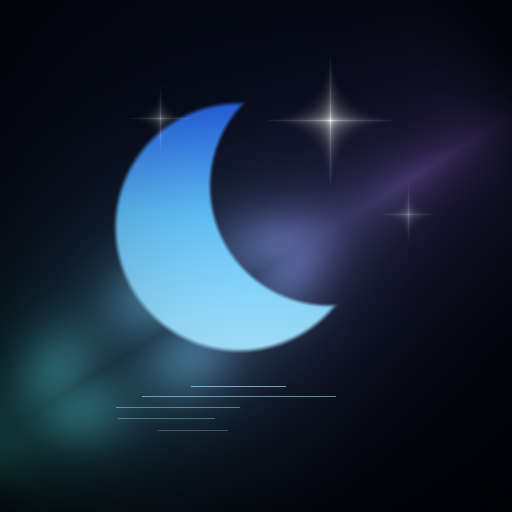
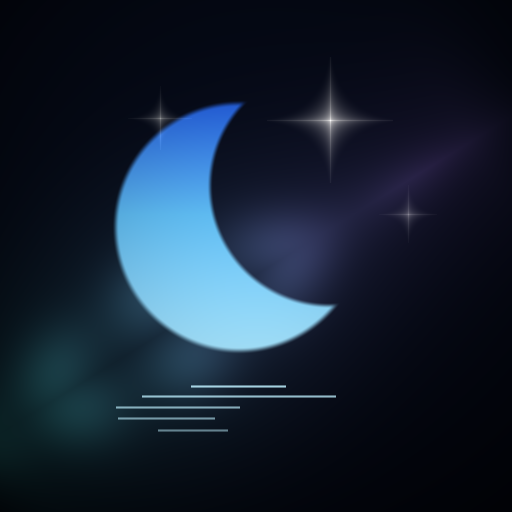
tune: dim aurora to ambient level, brighten and thicken water ripples

Changed region(s): [[0.0312, 0.5312, 0.6562, 0.875], [0.4062, 0.2812, 0.875, 0.5938]]

diff --git a/tools/icon-v7.py b/tools/icon-v7.py
@@ -86,8 +86,8 @@ def aurora_alpha(x, y):
     # 垂直光柱纹理（极光特色）：沿带方向的条纹调制
     ray = 0.72 + 0.28 * math.sin(t * AUR_LEN * 0.045 + math.sin(t * 3.1) * 2.0)
     env = smooth(-0.02, 0.12, t) * smooth(1.02, 0.88, t)     # 两端渐隐
-    a_core = core * 0.42 * ray * env
-    a_glow = glow * 0.20 * env
+    a_core = core * 0.26 * ray * env
+    a_glow = glow * 0.12 * env
     # 颜色：青绿 → 紫 沿带渐变
     ct = clamp(t * 1.2, 0, 1)
     cr = lerp(52, 167, ct); cg = lerp(224, 121, ct); cb = lerp(198, 246, ct)
@@ -129,7 +129,7 @@ for y in range(S):
 # ===== 水面镜像倒影：细波浪线（镜像月牙，随深度变碎变淡）=====
 WATERLINE = sc(396, CCY)
 RIPPLE_LINES = tuple(
-    dict(y=sc(y, CCY), comp=1.5 + i * 0.55, wave=(2.0 + i * 0.8) * SC, fade=(0.85 - i * 0.11) * 0.9)
+    dict(y=sc(y, CCY), comp=1.5 + i * 0.55, wave=(2.0 + i * 0.8) * SC, fade=(0.95 - i * 0.09))
     for i, y in enumerate((402, 413, 425, 438, 452, 466, 480))
 )
 for ln in RIPPLE_LINES:
@@ -140,8 +140,12 @@ for ln in RIPPLE_LINES:
     for x in range(S):
         xw = x + math.sin(x * 0.045 + yi * 0.21) * wave
         if crescent(xw, src_y):
-            px = rows[yi][x]
-            rows[yi][x] = (lerp(px[0], 168, fade), lerp(px[1], 230, fade), lerp(px[2], 255, fade))
+            for dyi, wv in ((0, 1.0), (-1, 0.55), (1, 0.55)):
+                yy = yi + dyi
+                if not (0 <= yy < S):
+                    continue
+                px = rows[yy][x]
+                rows[yy][x] = (lerp(px[0], 190, fade * wv), lerp(px[1], 240, fade * wv), lerp(px[2], 255, fade * wv))
 
 # ===== 繁星：追随月牙开口弧线，1 主星芒 + 2 点缀 =====
 def add_sparkle(cx, cy, size, amp):
